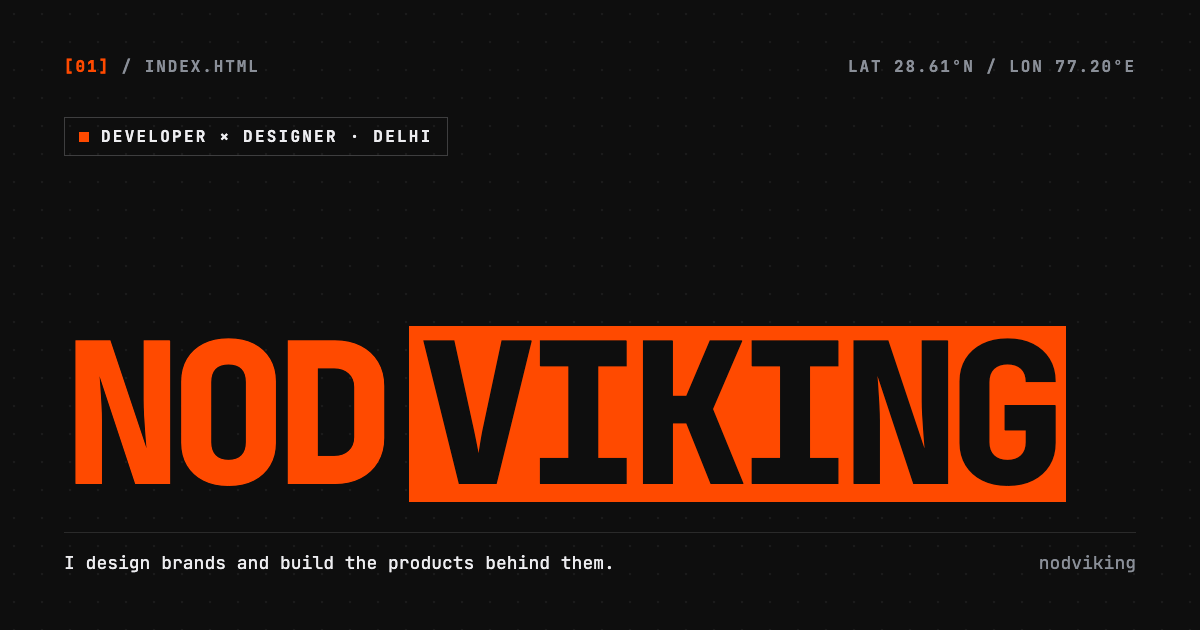
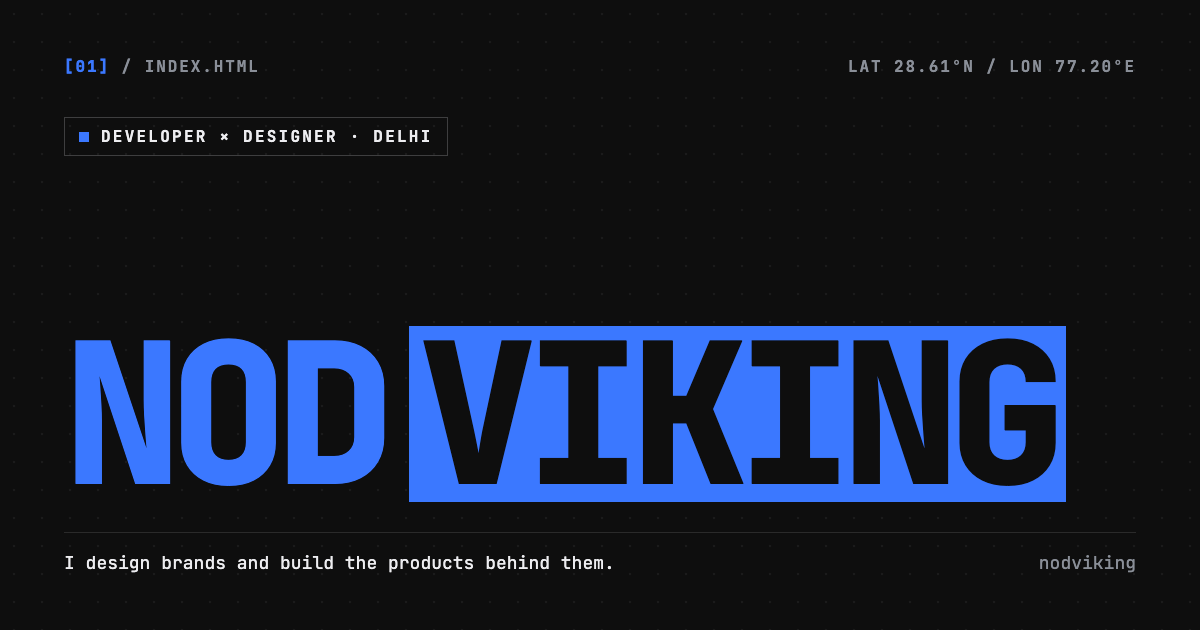
Switch the accent from orange to electric blue #3B78FF (AA 4.89:1 both ways)

Changed region(s): [[0.0617, 0.5127, 0.8942, 0.8143], [0.0308, 0.0905, 0.0925, 0.1206], [0.0617, 0.2111, 0.0925, 0.2413]]

diff --git a/src/app.css b/src/app.css
@@ -1,7 +1,7 @@
 @import 'tailwindcss';
 
 /*
- * nodviking design system: technical / brutalist, one orange accent.
+ * nodviking design system: technical / brutalist, one blue accent.
  * JetBrains Mono everywhere, hairline frames with square corner nodes, filled tab labels, no glow, no blur.
  */
 
@@ -13,9 +13,9 @@
 	--color-mute: #8a8f98;
 	--color-line: #2a2a2a;
 	--color-line-strong: #3a3a3a;
-	/* The one accent: Syntax Error orange. #FF4A00 on #0E0E0E = 5.73:1 and #0E0E0E on #FF4A00 = 5.73:1,
+	/* The one accent: electric blue. #3B78FF on #0E0E0E = 4.89:1 and #0E0E0E on #3B78FF = 4.89:1,
 	   so it passes AA for small text both ways; no lighter tint needed. */
-	--color-accent: #ff4a00;
+	--color-accent: #3b78ff;
 	--color-on-accent: #0e0e0e;
 
 	--font-mono: 'JetBrains Mono Variable', ui-monospace, 'SF Mono', Menlo, Consolas, monospace;
@@ -265,7 +265,7 @@
 		inset: calc(var(--node) / -2 - 4.5px);
 	}
 
-	/* Second word in a solid orange box with dark text (hero + contact). Box drawn by ::after, wiped via --box-r. */
+	/* Second word in a solid blue box with dark text (hero + contact). Box drawn by ::after, wiped via --box-r. */
 	.boxword {
 		--box-r: 0%;
 		position: relative;
